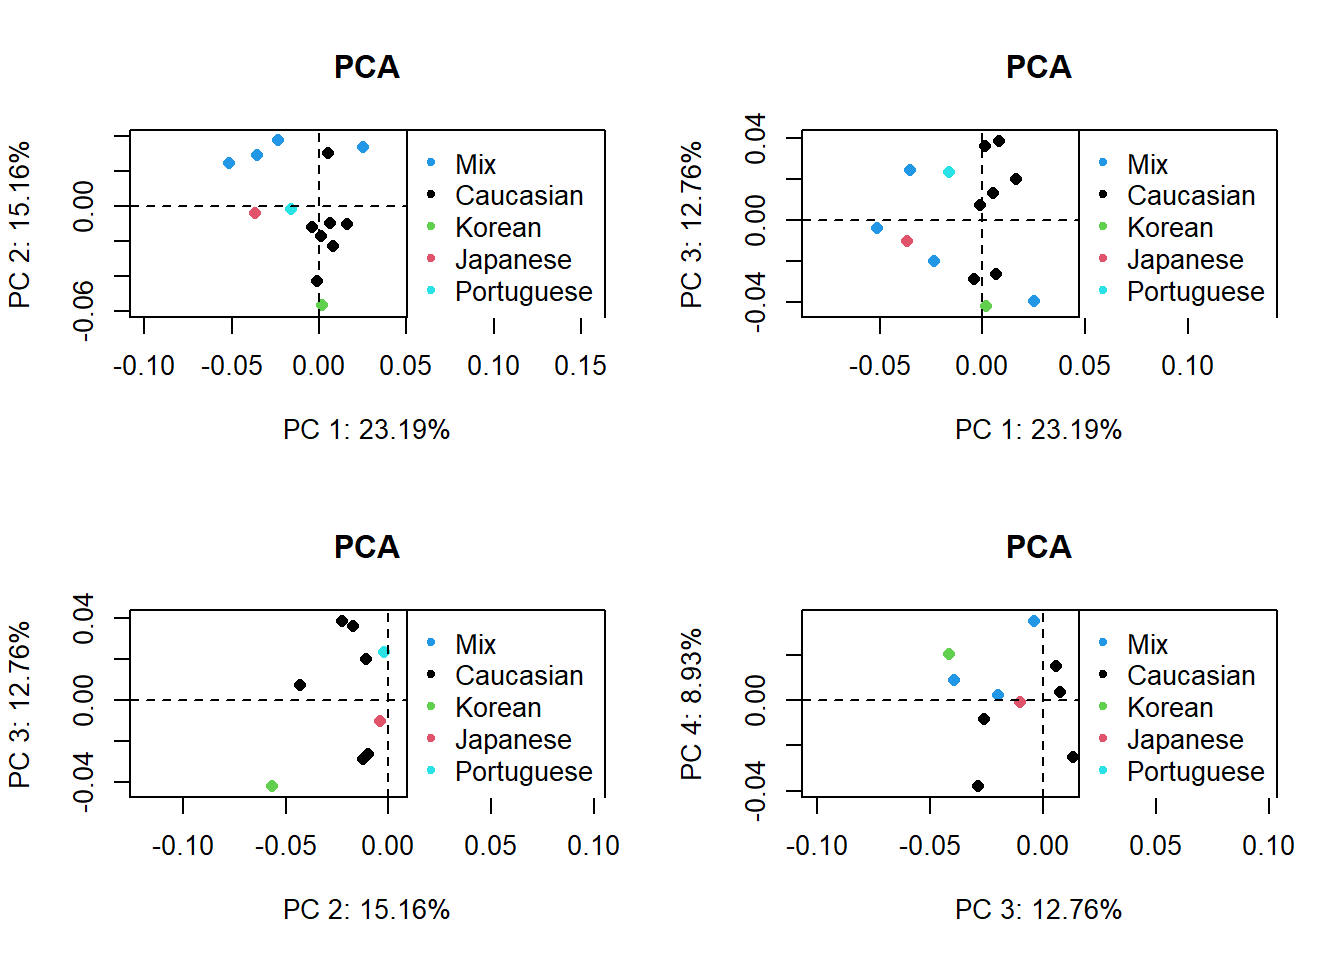
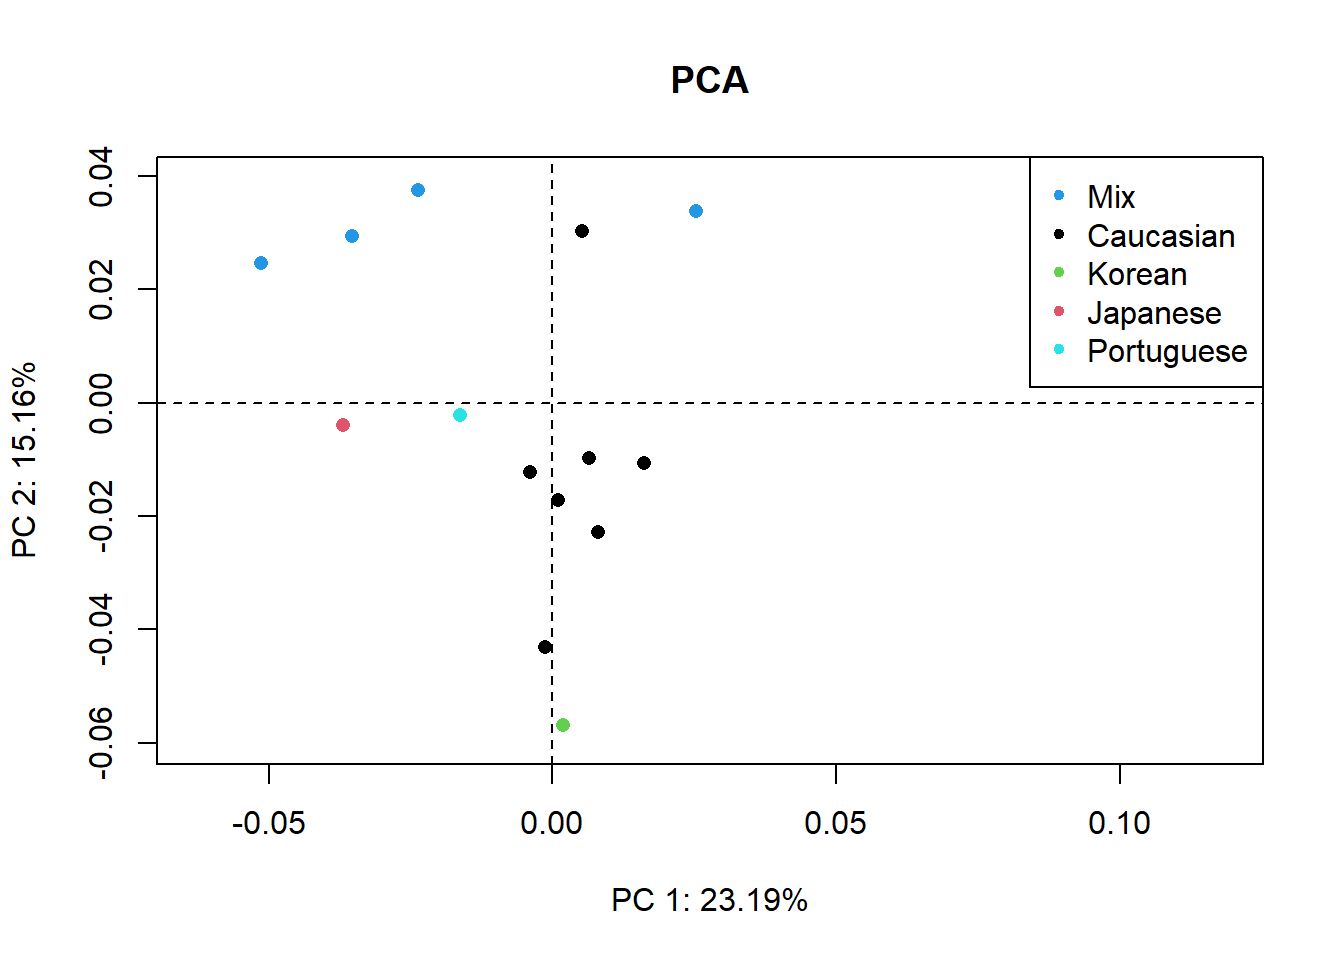
plots

diff --git a/docs/R_Analysis.html b/docs/R_Analysis.html
@@ -573,44 +573,52 @@ Consensus (mean) Configuration
 <span id="cb15-3"><a href="#cb15-3" aria-hidden="true" tabindex="-1"></a>                                            <span class="at">sep=</span><span class="st">"/"</span>),</span>
 <span id="cb15-4"><a href="#cb15-4" aria-hidden="true" tabindex="-1"></a>                               <span class="at">sep=</span><span class="st">","</span>, <span class="at">header =</span> <span class="cn">TRUE</span>, <span class="at">row.names=</span><span class="dv">1</span>)</span>
 <span id="cb15-5"><a href="#cb15-5" aria-hidden="true" tabindex="-1"></a>                               </span>
-<span id="cb15-6"><a href="#cb15-6" aria-hidden="true" tabindex="-1"></a>                               <span class="fu">par</span>(<span class="at">mfrow=</span> <span class="fu">c</span>(<span class="dv">2</span>,<span class="dv">2</span>))</span>
+<span id="cb15-6"><a href="#cb15-6" aria-hidden="true" tabindex="-1"></a>                               </span>
 <span id="cb15-7"><a href="#cb15-7" aria-hidden="true" tabindex="-1"></a><span class="fu">plot</span>(d1.pca, <span class="at">main =</span> <span class="st">"PCA"</span>,</span>
 <span id="cb15-8"><a href="#cb15-8" aria-hidden="true" tabindex="-1"></a><span class="at">col=</span>dat<span class="sc">$</span>Ancestry,</span>
 <span id="cb15-9"><a href="#cb15-9" aria-hidden="true" tabindex="-1"></a><span class="at">pch=</span><span class="dv">16</span>)</span>
-<span id="cb15-10"><a href="#cb15-10" aria-hidden="true" tabindex="-1"></a><span class="fu">legend</span>(<span class="st">"topright"</span>, <span class="at">pch =</span> <span class="dv">20</span>, <span class="at">col=</span><span class="fu">unique</span>(dat<span class="sc">$</span>Ancestry), <span class="at">legend =</span> <span class="fu">unique</span>(dat<span class="sc">$</span>Ancestry))</span>
-<span id="cb15-11"><a href="#cb15-11" aria-hidden="true" tabindex="-1"></a></span>
-<span id="cb15-12"><a href="#cb15-12" aria-hidden="true" tabindex="-1"></a></span>
-<span id="cb15-13"><a href="#cb15-13" aria-hidden="true" tabindex="-1"></a></span>
-<span id="cb15-14"><a href="#cb15-14" aria-hidden="true" tabindex="-1"></a><span class="fu">plot</span>(d1.pca, <span class="at">main =</span> <span class="st">"PCA"</span>,</span>
-<span id="cb15-15"><a href="#cb15-15" aria-hidden="true" tabindex="-1"></a>    <span class="at">axis1=</span><span class="dv">1</span>, <span class="at">axis2=</span><span class="dv">3</span>,</span>
-<span id="cb15-16"><a href="#cb15-16" aria-hidden="true" tabindex="-1"></a>    <span class="at">col=</span>dat<span class="sc">$</span>Ancestry,</span>
-<span id="cb15-17"><a href="#cb15-17" aria-hidden="true" tabindex="-1"></a>    <span class="at">pch=</span><span class="dv">16</span></span>
-<span id="cb15-18"><a href="#cb15-18" aria-hidden="true" tabindex="-1"></a>)</span>
-<span id="cb15-19"><a href="#cb15-19" aria-hidden="true" tabindex="-1"></a><span class="fu">legend</span>(<span class="st">"topright"</span>, <span class="at">pch =</span> <span class="dv">20</span>, <span class="at">col=</span><span class="fu">unique</span>(dat<span class="sc">$</span>Ancestry), <span class="at">legend =</span> <span class="fu">unique</span>(dat<span class="sc">$</span>Ancestry))</span>
-<span id="cb15-20"><a href="#cb15-20" aria-hidden="true" tabindex="-1"></a></span>
-<span id="cb15-21"><a href="#cb15-21" aria-hidden="true" tabindex="-1"></a><span class="fu">plot</span>(d1.pca, <span class="at">main =</span> <span class="st">"PCA"</span>,</span>
-<span id="cb15-22"><a href="#cb15-22" aria-hidden="true" tabindex="-1"></a>    <span class="at">axis1=</span><span class="dv">2</span>, <span class="at">axis2=</span><span class="dv">3</span>,</span>
-<span id="cb15-23"><a href="#cb15-23" aria-hidden="true" tabindex="-1"></a>    <span class="at">col=</span>dat<span class="sc">$</span>Ancestry,</span>
-<span id="cb15-24"><a href="#cb15-24" aria-hidden="true" tabindex="-1"></a>    <span class="at">pch=</span><span class="dv">16</span></span>
-<span id="cb15-25"><a href="#cb15-25" aria-hidden="true" tabindex="-1"></a>)</span>
-<span id="cb15-26"><a href="#cb15-26" aria-hidden="true" tabindex="-1"></a><span class="fu">legend</span>(<span class="st">"topright"</span>, <span class="at">pch =</span> <span class="dv">20</span>, <span class="at">col=</span><span class="fu">unique</span>(dat<span class="sc">$</span>Ancestry), <span class="at">legend =</span> <span class="fu">unique</span>(dat<span class="sc">$</span>Ancestry))</span>
-<span id="cb15-27"><a href="#cb15-27" aria-hidden="true" tabindex="-1"></a></span>
-<span id="cb15-28"><a href="#cb15-28" aria-hidden="true" tabindex="-1"></a><span class="fu">plot</span>(d1.pca, <span class="at">main =</span> <span class="st">"PCA"</span>,</span>
-<span id="cb15-29"><a href="#cb15-29" aria-hidden="true" tabindex="-1"></a>    <span class="at">axis1=</span><span class="dv">3</span>, <span class="at">axis2=</span><span class="dv">4</span>,</span>
-<span id="cb15-30"><a href="#cb15-30" aria-hidden="true" tabindex="-1"></a>    <span class="at">col=</span>dat<span class="sc">$</span>Ancestry,</span>
-<span id="cb15-31"><a href="#cb15-31" aria-hidden="true" tabindex="-1"></a>    <span class="at">pch=</span><span class="dv">16</span></span>
-<span id="cb15-32"><a href="#cb15-32" aria-hidden="true" tabindex="-1"></a>)</span>
-<span id="cb15-33"><a href="#cb15-33" aria-hidden="true" tabindex="-1"></a><span class="fu">legend</span>(<span class="st">"topright"</span>, <span class="at">pch =</span> <span class="dv">20</span>, <span class="at">col=</span><span class="fu">unique</span>(dat<span class="sc">$</span>Ancestry), <span class="at">legend =</span> <span class="fu">unique</span>(dat<span class="sc">$</span>Ancestry))</span></code><button title="Copy to Clipboard" class="code-copy-button"><i class="bi"></i></button></pre></div>
+<span id="cb15-10"><a href="#cb15-10" aria-hidden="true" tabindex="-1"></a><span class="fu">legend</span>(<span class="st">"topright"</span>, <span class="at">pch =</span> <span class="dv">20</span>, <span class="at">col=</span><span class="fu">unique</span>(dat<span class="sc">$</span>Ancestry), <span class="at">legend =</span> <span class="fu">unique</span>(dat<span class="sc">$</span>Ancestry))</span></code><button title="Copy to Clipboard" class="code-copy-button"><i class="bi"></i></button></pre></div>
 <div class="cell-output-display">
 <p><img src="R_Analysis_files/figure-html/GPA-2.png" class="img-fluid" width="672"></p>
 </div>
 </div>
 <div class="cell">
-<div class="sourceCode cell-code" id="cb16"><pre class="sourceCode r code-with-copy"><code class="sourceCode r"><span id="cb16-1"><a href="#cb16-1" aria-hidden="true" tabindex="-1"></a>gdf <span class="ot">&lt;-</span> <span class="fu">geomorph.data.frame</span>(PD,</span>
-<span id="cb16-2"><a href="#cb16-2" aria-hidden="true" tabindex="-1"></a><span class="at">Ancestry =</span> dat<span class="sc">$</span>Ancestry,</span>
-<span id="cb16-3"><a href="#cb16-3" aria-hidden="true" tabindex="-1"></a><span class="at">Sex =</span> dat<span class="sc">$</span>Sex,</span>
-<span id="cb16-4"><a href="#cb16-4" aria-hidden="true" tabindex="-1"></a><span class="at">Csize =</span> dat<span class="sc">$</span>centeroid)</span>
-<span id="cb16-5"><a href="#cb16-5" aria-hidden="true" tabindex="-1"></a><span class="fu">attributes</span>(gdf)</span></code><button title="Copy to Clipboard" class="code-copy-button"><i class="bi"></i></button></pre></div>
+<div class="sourceCode cell-code" id="cb16"><pre class="sourceCode r code-with-copy"><code class="sourceCode r"><span id="cb16-1"><a href="#cb16-1" aria-hidden="true" tabindex="-1"></a><span class="fu">par</span>(<span class="at">mfrow=</span> <span class="fu">c</span>(<span class="dv">2</span>,<span class="dv">2</span>))</span>
+<span id="cb16-2"><a href="#cb16-2" aria-hidden="true" tabindex="-1"></a><span class="fu">plot</span>(d1.pca, <span class="at">main =</span> <span class="st">"PCA"</span>,</span>
+<span id="cb16-3"><a href="#cb16-3" aria-hidden="true" tabindex="-1"></a><span class="at">col=</span>dat<span class="sc">$</span>Ancestry,</span>
+<span id="cb16-4"><a href="#cb16-4" aria-hidden="true" tabindex="-1"></a><span class="at">pch=</span><span class="dv">16</span>)</span>
+<span id="cb16-5"><a href="#cb16-5" aria-hidden="true" tabindex="-1"></a><span class="fu">legend</span>(<span class="st">"topright"</span>, <span class="at">pch =</span> <span class="dv">20</span>, <span class="at">col=</span><span class="fu">unique</span>(dat<span class="sc">$</span>Ancestry), <span class="at">legend =</span> <span class="fu">unique</span>(dat<span class="sc">$</span>Ancestry))</span>
+<span id="cb16-6"><a href="#cb16-6" aria-hidden="true" tabindex="-1"></a></span>
+<span id="cb16-7"><a href="#cb16-7" aria-hidden="true" tabindex="-1"></a><span class="fu">plot</span>(d1.pca, <span class="at">main =</span> <span class="st">"PCA"</span>,</span>
+<span id="cb16-8"><a href="#cb16-8" aria-hidden="true" tabindex="-1"></a>    <span class="at">axis1=</span><span class="dv">1</span>, <span class="at">axis2=</span><span class="dv">3</span>,</span>
+<span id="cb16-9"><a href="#cb16-9" aria-hidden="true" tabindex="-1"></a>    <span class="at">col=</span>dat<span class="sc">$</span>Ancestry,</span>
+<span id="cb16-10"><a href="#cb16-10" aria-hidden="true" tabindex="-1"></a>    <span class="at">pch=</span><span class="dv">16</span></span>
+<span id="cb16-11"><a href="#cb16-11" aria-hidden="true" tabindex="-1"></a>)</span>
+<span id="cb16-12"><a href="#cb16-12" aria-hidden="true" tabindex="-1"></a><span class="fu">legend</span>(<span class="st">"topright"</span>, <span class="at">pch =</span> <span class="dv">20</span>, <span class="at">col=</span><span class="fu">unique</span>(dat<span class="sc">$</span>Ancestry), <span class="at">legend =</span> <span class="fu">unique</span>(dat<span class="sc">$</span>Ancestry))</span>
+<span id="cb16-13"><a href="#cb16-13" aria-hidden="true" tabindex="-1"></a></span>
+<span id="cb16-14"><a href="#cb16-14" aria-hidden="true" tabindex="-1"></a><span class="fu">plot</span>(d1.pca, <span class="at">main =</span> <span class="st">"PCA"</span>,</span>
+<span id="cb16-15"><a href="#cb16-15" aria-hidden="true" tabindex="-1"></a>    <span class="at">axis1=</span><span class="dv">2</span>, <span class="at">axis2=</span><span class="dv">3</span>,</span>
+<span id="cb16-16"><a href="#cb16-16" aria-hidden="true" tabindex="-1"></a>    <span class="at">col=</span>dat<span class="sc">$</span>Ancestry,</span>
+<span id="cb16-17"><a href="#cb16-17" aria-hidden="true" tabindex="-1"></a>    <span class="at">pch=</span><span class="dv">16</span></span>
+<span id="cb16-18"><a href="#cb16-18" aria-hidden="true" tabindex="-1"></a>)</span>
+<span id="cb16-19"><a href="#cb16-19" aria-hidden="true" tabindex="-1"></a><span class="fu">legend</span>(<span class="st">"topright"</span>, <span class="at">pch =</span> <span class="dv">20</span>, <span class="at">col=</span><span class="fu">unique</span>(dat<span class="sc">$</span>Ancestry), <span class="at">legend =</span> <span class="fu">unique</span>(dat<span class="sc">$</span>Ancestry))</span>
+<span id="cb16-20"><a href="#cb16-20" aria-hidden="true" tabindex="-1"></a></span>
+<span id="cb16-21"><a href="#cb16-21" aria-hidden="true" tabindex="-1"></a><span class="fu">plot</span>(d1.pca, <span class="at">main =</span> <span class="st">"PCA"</span>,</span>
+<span id="cb16-22"><a href="#cb16-22" aria-hidden="true" tabindex="-1"></a>    <span class="at">axis1=</span><span class="dv">3</span>, <span class="at">axis2=</span><span class="dv">4</span>,</span>
+<span id="cb16-23"><a href="#cb16-23" aria-hidden="true" tabindex="-1"></a>    <span class="at">col=</span>dat<span class="sc">$</span>Ancestry,</span>
+<span id="cb16-24"><a href="#cb16-24" aria-hidden="true" tabindex="-1"></a>    <span class="at">pch=</span><span class="dv">16</span></span>
+<span id="cb16-25"><a href="#cb16-25" aria-hidden="true" tabindex="-1"></a>)</span>
+<span id="cb16-26"><a href="#cb16-26" aria-hidden="true" tabindex="-1"></a><span class="fu">legend</span>(<span class="st">"topright"</span>, <span class="at">pch =</span> <span class="dv">20</span>, <span class="at">col=</span><span class="fu">unique</span>(dat<span class="sc">$</span>Ancestry), <span class="at">legend =</span> <span class="fu">unique</span>(dat<span class="sc">$</span>Ancestry))</span></code><button title="Copy to Clipboard" class="code-copy-button"><i class="bi"></i></button></pre></div>
+<div class="cell-output-display">
+<p><img src="R_Analysis_files/figure-html/fourplot-1.png" class="img-fluid" width="672"></p>
+</div>
+</div>
+<div class="cell">
+<div class="sourceCode cell-code" id="cb17"><pre class="sourceCode r code-with-copy"><code class="sourceCode r"><span id="cb17-1"><a href="#cb17-1" aria-hidden="true" tabindex="-1"></a>gdf <span class="ot">&lt;-</span> <span class="fu">geomorph.data.frame</span>(PD,</span>
+<span id="cb17-2"><a href="#cb17-2" aria-hidden="true" tabindex="-1"></a><span class="at">Ancestry =</span> dat<span class="sc">$</span>Ancestry,</span>
+<span id="cb17-3"><a href="#cb17-3" aria-hidden="true" tabindex="-1"></a><span class="at">Sex =</span> dat<span class="sc">$</span>Sex,</span>
+<span id="cb17-4"><a href="#cb17-4" aria-hidden="true" tabindex="-1"></a><span class="at">Csize =</span> dat<span class="sc">$</span>centeroid)</span>
+<span id="cb17-5"><a href="#cb17-5" aria-hidden="true" tabindex="-1"></a><span class="fu">attributes</span>(gdf)</span></code><button title="Copy to Clipboard" class="code-copy-button"><i class="bi"></i></button></pre></div>
 <div class="cell-output cell-output-stdout">
 <pre><code>$names
 [1] ""         "Ancestry" "Sex"      "Csize"   
@@ -618,7 +626,7 @@ Consensus (mean) Configuration
 $class
 [1] "geomorph.data.frame"</code></pre>
 </div>
-<div class="sourceCode cell-code" id="cb18"><pre class="sourceCode r code-with-copy"><code class="sourceCode r"><span id="cb18-1"><a href="#cb18-1" aria-hidden="true" tabindex="-1"></a>lm.fit <span class="ot">&lt;-</span> <span class="fu">procD.lm</span>(Coords<span class="sc">~</span>Ancestry<span class="sc">*</span>Sex, <span class="at">data=</span>gdf)</span></code><button title="Copy to Clipboard" class="code-copy-button"><i class="bi"></i></button></pre></div>
+<div class="sourceCode cell-code" id="cb19"><pre class="sourceCode r code-with-copy"><code class="sourceCode r"><span id="cb19-1"><a href="#cb19-1" aria-hidden="true" tabindex="-1"></a>lm.fit <span class="ot">&lt;-</span> <span class="fu">procD.lm</span>(Coords<span class="sc">~</span>Ancestry<span class="sc">*</span>Sex, <span class="at">data=</span>gdf)</span></code><button title="Copy to Clipboard" class="code-copy-button"><i class="bi"></i></button></pre></div>
 <div class="cell-output cell-output-stdout">
 <pre><code>
 Warning: Because variables in the linear model are redundant,
@@ -627,7 +635,7 @@ Original X columns: 10
 Final X columns (rank): 7
 Check coefficients or degrees of freedom in ANOVA to see changes.</code></pre>
 </div>
-<div class="sourceCode cell-code" id="cb20"><pre class="sourceCode r code-with-copy"><code class="sourceCode r"><span id="cb20-1"><a href="#cb20-1" aria-hidden="true" tabindex="-1"></a><span class="fu">summary</span>(lm.fit)</span></code><button title="Copy to Clipboard" class="code-copy-button"><i class="bi"></i></button></pre></div>
+<div class="sourceCode cell-code" id="cb21"><pre class="sourceCode r code-with-copy"><code class="sourceCode r"><span id="cb21-1"><a href="#cb21-1" aria-hidden="true" tabindex="-1"></a><span class="fu">summary</span>(lm.fit)</span></code><button title="Copy to Clipboard" class="code-copy-button"><i class="bi"></i></button></pre></div>
 <div class="cell-output cell-output-stdout">
 <pre><code>
 Analysis of Variance, using Residual Randomization
@@ -648,7 +656,7 @@ Signif. codes:  0 '***' 0.001 '**' 0.01 '*' 0.05 '.' 0.1 ' ' 1
 
 Call: procD.lm(f1 = Coords ~ Ancestry * Sex, data = gdf)</code></pre>
 </div>
-<div class="sourceCode cell-code" id="cb22"><pre class="sourceCode r code-with-copy"><code class="sourceCode r"><span id="cb22-1"><a href="#cb22-1" aria-hidden="true" tabindex="-1"></a><span class="fu">anova</span>(<span class="fu">procD.lm</span>(Coords<span class="sc">~</span>Csize <span class="sc">+</span> Ancestry<span class="sc">*</span>Sex, <span class="at">data=</span>gdf))</span></code><button title="Copy to Clipboard" class="code-copy-button"><i class="bi"></i></button></pre></div>
+<div class="sourceCode cell-code" id="cb23"><pre class="sourceCode r code-with-copy"><code class="sourceCode r"><span id="cb23-1"><a href="#cb23-1" aria-hidden="true" tabindex="-1"></a><span class="fu">anova</span>(<span class="fu">procD.lm</span>(Coords<span class="sc">~</span>Csize <span class="sc">+</span> Ancestry<span class="sc">*</span>Sex, <span class="at">data=</span>gdf))</span></code><button title="Copy to Clipboard" class="code-copy-button"><i class="bi"></i></button></pre></div>
 <div class="cell-output cell-output-stdout">
 <pre><code>
 Warning: Because variables in the linear model are redundant,
@@ -678,25 +686,25 @@ Signif. codes:  0 '***' 0.001 '**' 0.01 '*' 0.05 '.' 0.1 ' ' 1
 
 Call: procD.lm(f1 = Coords ~ Csize + Ancestry * Sex, data = gdf)</code></pre>
 </div>
-<div class="sourceCode cell-code" id="cb25"><pre class="sourceCode r code-with-copy"><code class="sourceCode r"><span id="cb25-1"><a href="#cb25-1" aria-hidden="true" tabindex="-1"></a><span class="fu">plot</span>(d1.pca, <span class="at">main =</span> <span class="st">"PCA"</span>,</span>
-<span id="cb25-2"><a href="#cb25-2" aria-hidden="true" tabindex="-1"></a><span class="at">col=</span>dat<span class="sc">$</span>Sex,</span>
-<span id="cb25-3"><a href="#cb25-3" aria-hidden="true" tabindex="-1"></a><span class="at">pch=</span><span class="dv">16</span></span>
-<span id="cb25-4"><a href="#cb25-4" aria-hidden="true" tabindex="-1"></a>)</span></code><button title="Copy to Clipboard" class="code-copy-button"><i class="bi"></i></button></pre></div>
+<div class="sourceCode cell-code" id="cb26"><pre class="sourceCode r code-with-copy"><code class="sourceCode r"><span id="cb26-1"><a href="#cb26-1" aria-hidden="true" tabindex="-1"></a><span class="fu">plot</span>(d1.pca, <span class="at">main =</span> <span class="st">"PCA"</span>,</span>
+<span id="cb26-2"><a href="#cb26-2" aria-hidden="true" tabindex="-1"></a><span class="at">col=</span>dat<span class="sc">$</span>Sex,</span>
+<span id="cb26-3"><a href="#cb26-3" aria-hidden="true" tabindex="-1"></a><span class="at">pch=</span><span class="dv">16</span></span>
+<span id="cb26-4"><a href="#cb26-4" aria-hidden="true" tabindex="-1"></a>)</span></code><button title="Copy to Clipboard" class="code-copy-button"><i class="bi"></i></button></pre></div>
 <div class="cell-output-display">
 <p><img src="R_Analysis_files/figure-html/gdf-1.png" class="img-fluid" width="672"></p>
 </div>
 </div>
 <div class="cell">
-<div class="sourceCode cell-code" id="cb26"><pre class="sourceCode r code-with-copy"><code class="sourceCode r"><span id="cb26-1"><a href="#cb26-1" aria-hidden="true" tabindex="-1"></a>d1Links <span class="ot">&lt;-</span> <span class="st">"Data/d1Links.csv"</span></span>
-<span id="cb26-2"><a href="#cb26-2" aria-hidden="true" tabindex="-1"></a>d1Links <span class="ot">&lt;-</span> <span class="fu">read.csv</span>(d1Links)</span>
-<span id="cb26-3"><a href="#cb26-3" aria-hidden="true" tabindex="-1"></a>save_data_location <span class="ot">&lt;-</span> <span class="st">"Data/d1Links.rds"</span></span>
-<span id="cb26-4"><a href="#cb26-4" aria-hidden="true" tabindex="-1"></a><span class="fu">saveRDS</span>(d1Links, <span class="at">file =</span> save_data_location)</span>
-<span id="cb26-5"><a href="#cb26-5" aria-hidden="true" tabindex="-1"></a>d1rds <span class="ot">&lt;-</span> <span class="st">"Data/d1Links.rds"</span></span>
-<span id="cb26-6"><a href="#cb26-6" aria-hidden="true" tabindex="-1"></a>d1RD <span class="ot">&lt;-</span> <span class="fu">readRDS</span>(d1rds)</span>
-<span id="cb26-7"><a href="#cb26-7" aria-hidden="true" tabindex="-1"></a></span>
-<span id="cb26-8"><a href="#cb26-8" aria-hidden="true" tabindex="-1"></a></span>
-<span id="cb26-9"><a href="#cb26-9" aria-hidden="true" tabindex="-1"></a></span>
-<span id="cb26-10"><a href="#cb26-10" aria-hidden="true" tabindex="-1"></a> <span class="fu">plot</span>(Mshape.Coords, d1RD[ ,<span class="dv">2</span><span class="sc">:</span><span class="dv">3</span>])</span></code><button title="Copy to Clipboard" class="code-copy-button"><i class="bi"></i></button></pre></div>
+<div class="sourceCode cell-code" id="cb27"><pre class="sourceCode r code-with-copy"><code class="sourceCode r"><span id="cb27-1"><a href="#cb27-1" aria-hidden="true" tabindex="-1"></a>d1Links <span class="ot">&lt;-</span> <span class="st">"Data/d1Links.csv"</span></span>
+<span id="cb27-2"><a href="#cb27-2" aria-hidden="true" tabindex="-1"></a>d1Links <span class="ot">&lt;-</span> <span class="fu">read.csv</span>(d1Links)</span>
+<span id="cb27-3"><a href="#cb27-3" aria-hidden="true" tabindex="-1"></a>save_data_location <span class="ot">&lt;-</span> <span class="st">"Data/d1Links.rds"</span></span>
+<span id="cb27-4"><a href="#cb27-4" aria-hidden="true" tabindex="-1"></a><span class="fu">saveRDS</span>(d1Links, <span class="at">file =</span> save_data_location)</span>
+<span id="cb27-5"><a href="#cb27-5" aria-hidden="true" tabindex="-1"></a>d1rds <span class="ot">&lt;-</span> <span class="st">"Data/d1Links.rds"</span></span>
+<span id="cb27-6"><a href="#cb27-6" aria-hidden="true" tabindex="-1"></a>d1RD <span class="ot">&lt;-</span> <span class="fu">readRDS</span>(d1rds)</span>
+<span id="cb27-7"><a href="#cb27-7" aria-hidden="true" tabindex="-1"></a></span>
+<span id="cb27-8"><a href="#cb27-8" aria-hidden="true" tabindex="-1"></a></span>
+<span id="cb27-9"><a href="#cb27-9" aria-hidden="true" tabindex="-1"></a></span>
+<span id="cb27-10"><a href="#cb27-10" aria-hidden="true" tabindex="-1"></a> <span class="fu">plot</span>(Mshape.Coords, d1RD[ ,<span class="dv">2</span><span class="sc">:</span><span class="dv">3</span>])</span></code><button title="Copy to Clipboard" class="code-copy-button"><i class="bi"></i></button></pre></div>
 </div>
 
 
